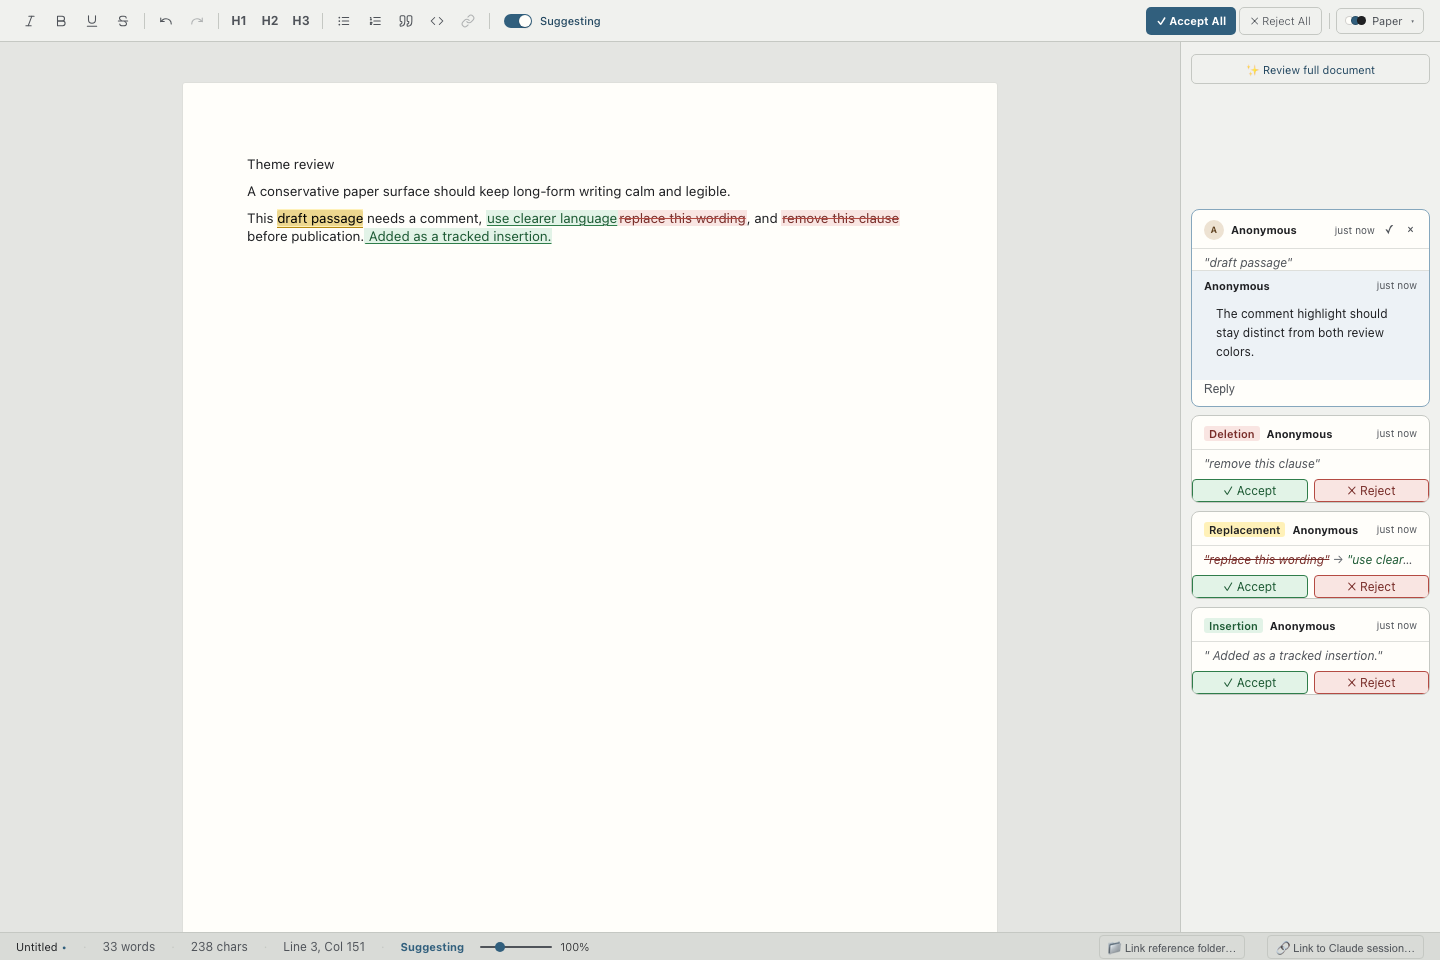
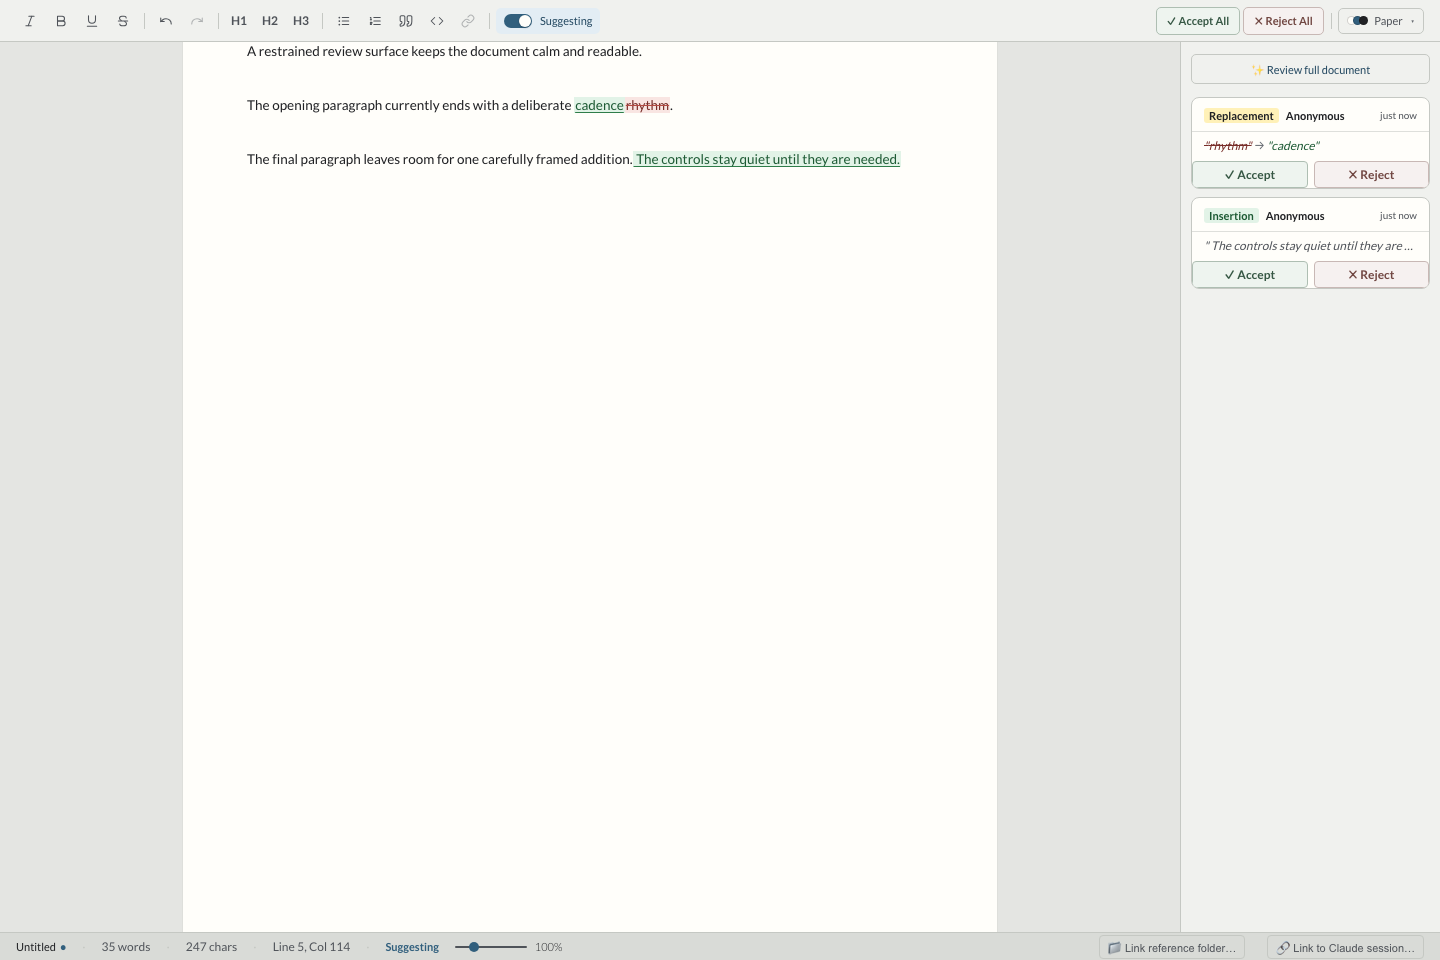
refine review action styling

diff --git a/src/App.css b/src/App.css
@@ -39,6 +39,16 @@
   --color-track-del-line: #b44b43;
   --color-highlight-bg: #fff1b8;
   --color-highlight-border: #b88b13;
+  --color-action-accept-bg: #eef4ef;
+  --color-action-accept-hover: #e3ece5;
+  --color-action-accept-active: #d8e5dc;
+  --color-action-accept-text: #365744;
+  --color-action-accept-border: #aebeb2;
+  --color-action-reject-bg: #f6f1f0;
+  --color-action-reject-hover: #eee4e2;
+  --color-action-reject-active: #e6d8d5;
+  --color-action-reject-text: #714742;
+  --color-action-reject-border: #c8b8b5;
 }
 
 /* Gruvbox dark uses the canonical bg/fg and classic accent set as its base.
@@ -71,6 +81,16 @@
   --color-track-del-line: #fb4934;
   --color-highlight-bg: #4c412b;
   --color-highlight-border: #fabd2f;
+  --color-action-accept-bg: #31382f;
+  --color-action-accept-hover: #3a4435;
+  --color-action-accept-active: #424e3b;
+  --color-action-accept-text: #b8bb86;
+  --color-action-accept-border: #5d6654;
+  --color-action-reject-bg: #392f2e;
+  --color-action-reject-hover: #463432;
+  --color-action-reject-active: #523a37;
+  --color-action-reject-text: #e5a09a;
+  --color-action-reject-border: #70504c;
 }
 
 /* ── Non-color tokens (shared across themes) ────────────────────── */
@@ -848,27 +868,51 @@ del.track-delete {
   padding: 0 1px;
 }
 
-/* Accept/reject toolbar buttons */
+/* Review actions are intentionally tonal rather than filled: the tracked text
+   is the primary signal, while these controls remain immediately scannable. */
+.toolbar-btn-accept,
+.toolbar-btn-reject,
+.suggestion-accept-btn,
+.suggestion-reject-btn {
+  appearance: none;
+  box-shadow: none;
+  font-family: var(--font-sans);
+  font-weight: 600;
+  transition:
+    background-color 0.12s ease,
+    border-color 0.12s ease,
+    color 0.12s ease;
+}
+
 .toolbar-btn-accept {
-  background: var(--color-accent) !important;
-  color: #fff !important;
+  border: 0.5px solid var(--color-action-accept-border);
+  background: var(--color-action-accept-bg) !important;
+  color: var(--color-action-accept-text) !important;
   font-size: var(--text-meta);
-  font-weight: 700;
   padding: 0 10px;
 }
 .toolbar-btn-accept:hover {
-  background: var(--color-accent-dark) !important;
-  color: #fff !important;
+  border-color: var(--color-track-add-line);
+  background: var(--color-action-accept-hover) !important;
+  color: var(--color-action-accept-text) !important;
+}
+.toolbar-btn-accept:active {
+  background: var(--color-action-accept-active) !important;
 }
 .toolbar-btn-reject {
-  border: 0.5px solid var(--color-border);
-  color: var(--color-ink-mid);
+  border: 0.5px solid var(--color-action-reject-border);
+  background: var(--color-action-reject-bg);
+  color: var(--color-action-reject-text);
   font-size: var(--text-meta);
-  font-weight: 300;
   padding: 0 10px;
 }
 .toolbar-btn-reject:hover {
-  background: var(--color-accent-light) !important;
+  border-color: var(--color-track-del-line);
+  background: var(--color-action-reject-hover) !important;
+  color: var(--color-action-reject-text);
+}
+.toolbar-btn-reject:active {
+  background: var(--color-action-reject-active) !important;
 }
 
 /* ── Comment panel ──────────────────────────────────────────────── */
@@ -1383,31 +1427,46 @@ del.track-delete {
 }
 .suggestion-accept-btn {
   flex: 1;
+  min-height: 27px;
   padding: 3px 8px;
-  background: var(--color-track-add-bg);
-  color: var(--color-track-add-text);
-  border: 1px solid var(--color-track-add-line);
+  background: var(--color-action-accept-bg);
+  color: var(--color-action-accept-text);
+  border: 0.5px solid var(--color-action-accept-border);
   border-radius: 4px;
   cursor: pointer;
   font-size: 12px;
-  font-family: var(--font-sans);
 }
 .suggestion-accept-btn:hover {
-  filter: brightness(0.96);
+  background: var(--color-action-accept-hover);
+  border-color: var(--color-track-add-line);
+}
+.suggestion-accept-btn:active {
+  background: var(--color-action-accept-active);
 }
 .suggestion-reject-btn {
   flex: 1;
+  min-height: 27px;
   padding: 3px 8px;
-  background: var(--color-track-del-bg);
-  color: var(--color-track-del-text);
-  border: 1px solid var(--color-track-del-line);
+  background: var(--color-action-reject-bg);
+  color: var(--color-action-reject-text);
+  border: 0.5px solid var(--color-action-reject-border);
   border-radius: 4px;
   cursor: pointer;
   font-size: 12px;
-  font-family: var(--font-sans);
 }
 .suggestion-reject-btn:hover {
-  filter: brightness(0.96);
+  background: var(--color-action-reject-hover);
+  border-color: var(--color-track-del-line);
+}
+.suggestion-reject-btn:active {
+  background: var(--color-action-reject-active);
+}
+.toolbar-btn-accept:focus-visible,
+.toolbar-btn-reject:focus-visible,
+.suggestion-accept-btn:focus-visible,
+.suggestion-reject-btn:focus-visible {
+  outline: 2px solid var(--color-accent);
+  outline-offset: 1px;
 }
 
 /* ── Footer / status bar ────────────────────────────────────────── */

diff --git a/e2e/themes.spec.ts b/e2e/themes.spec.ts
@@ -30,3 +30,46 @@ test('a removed legacy theme id migrates to Paper', async ({ page }) => {
   await expect(page.locator('.theme-selector-trigger .theme-label')).toHaveText('Paper');
   expect(await page.evaluate(() => localStorage.getItem('quill-theme'))).toBe('paper');
 });
+
+test('review actions stay tonal, shadowless, and distinct in both themes', async ({ page }) => {
+  await page.goto('/');
+  const editor = page.locator('.ProseMirror');
+  await editor.waitFor();
+  await editor.click();
+  await page.locator('.mode-switch').click();
+  await editor.click();
+  await page.keyboard.type('A restrained suggestion');
+
+  const accept = page.locator('.suggestion-accept-btn');
+  const reject = page.locator('.suggestion-reject-btn');
+  const acceptAll = page.locator('.toolbar-btn-accept');
+  const rejectAll = page.locator('.toolbar-btn-reject');
+
+  for (const theme of ['Paper', 'Gruvbox']) {
+    if (theme === 'Gruvbox') {
+      await page.locator('.theme-selector-trigger').click();
+      await page.locator('.theme-selector-item').filter({ hasText: theme }).click();
+    }
+
+    const base = await Promise.all(
+      [accept, reject, acceptAll, rejectAll].map((locator) =>
+        locator.evaluate((element) => {
+          const style = getComputedStyle(element);
+          return { background: style.backgroundColor, shadow: style.boxShadow };
+        }),
+      ),
+    );
+    expect(base.every(({ shadow }) => shadow === 'none')).toBe(true);
+    expect(base[0].background).not.toBe(base[1].background);
+    expect(base[2].background).not.toBe(base[3].background);
+
+    await accept.hover();
+    await expect
+      .poll(() => accept.evaluate((element) => getComputedStyle(element).backgroundColor))
+      .not.toBe(base[0].background);
+    await reject.hover();
+    await expect
+      .poll(() => reject.evaluate((element) => getComputedStyle(element).backgroundColor))
+      .not.toBe(base[1].background);
+  }
+});

diff --git a/src/test/styles/themes.test.ts b/src/test/styles/themes.test.ts
@@ -74,4 +74,29 @@ describe.each(['paper', 'gruvbox'] as const)('%s annotation palette', (id) => {
       contrast(token(body, '--color-ink'), token(body, '--color-highlight-bg')),
     ).toBeGreaterThanOrEqual(4.5);
   });
+
+  it('keeps quiet review actions distinct and at WCAG AA contrast', () => {
+    const acceptBackground = token(body, '--color-action-accept-bg');
+    const rejectBackground = token(body, '--color-action-reject-bg');
+
+    expect(acceptBackground).not.toBe(rejectBackground);
+    expect(
+      contrast(token(body, '--color-action-accept-text'), acceptBackground),
+    ).toBeGreaterThanOrEqual(4.5);
+    expect(
+      contrast(token(body, '--color-action-reject-text'), rejectBackground),
+    ).toBeGreaterThanOrEqual(4.5);
+    expect(
+      contrast(
+        token(body, '--color-action-accept-text'),
+        token(body, '--color-action-accept-hover'),
+      ),
+    ).toBeGreaterThanOrEqual(4.5);
+    expect(
+      contrast(
+        token(body, '--color-action-reject-text'),
+        token(body, '--color-action-reject-hover'),
+      ),
+    ).toBeGreaterThanOrEqual(4.5);
+  });
 });